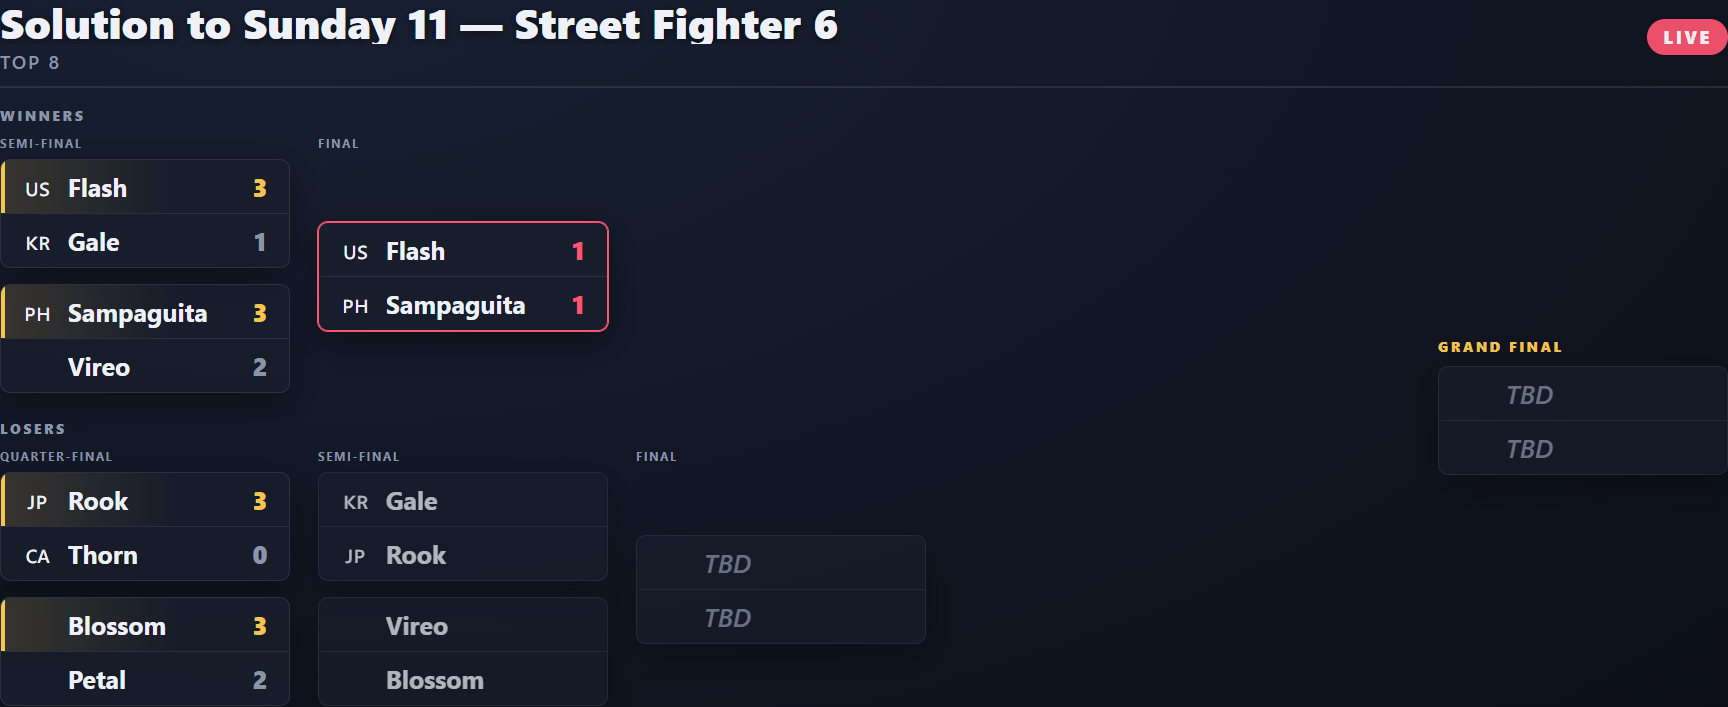
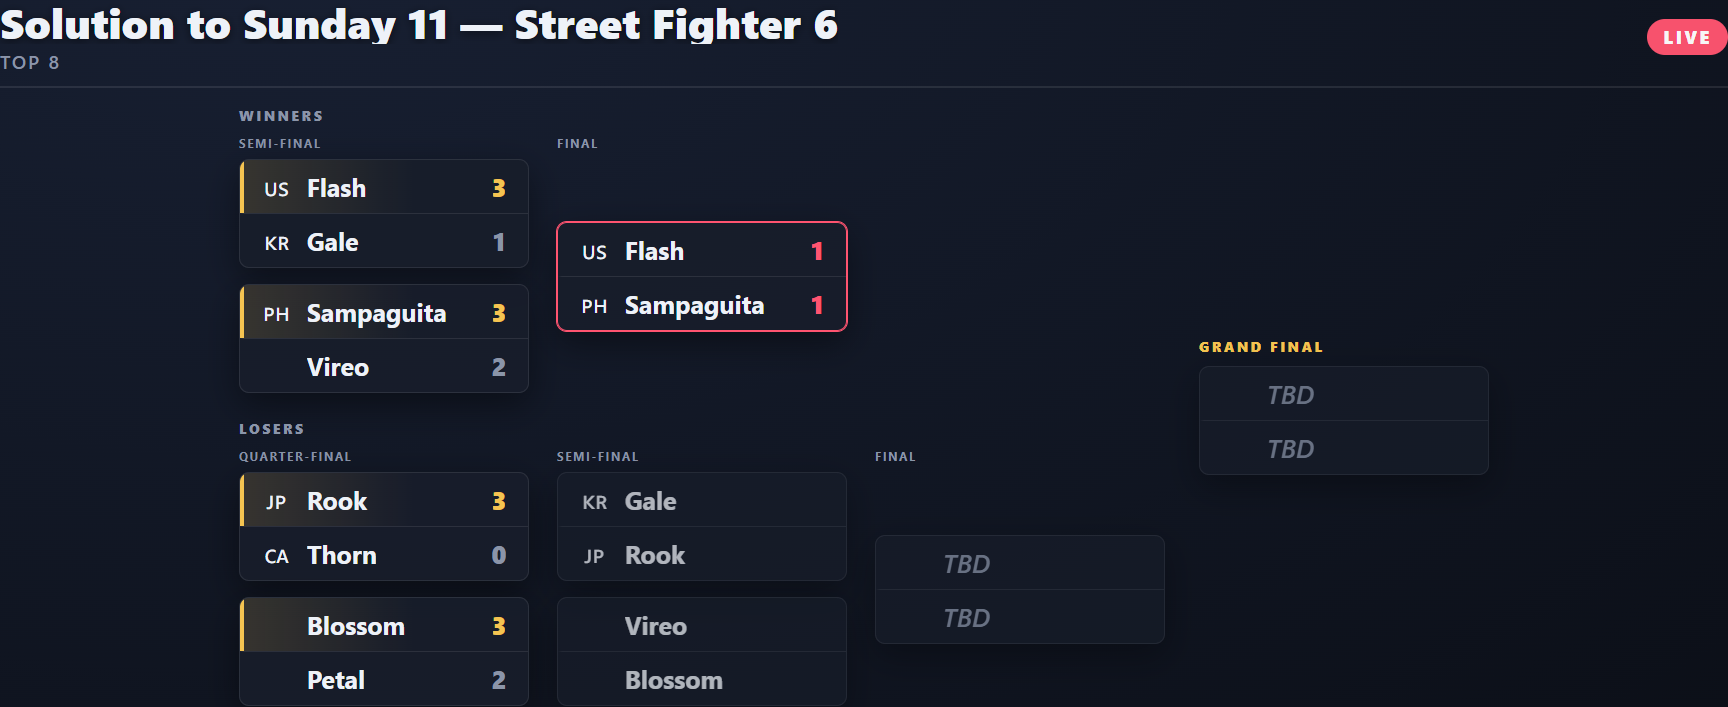
Octet bracket: center the tree and pull the Grand Final in next to it
The winners/losers column was 1fr (filled the stage), shoving the Grand Final band to the far edge; make both grid columns content-sized so GF hugs the tree, and center .oc-bracket in the stage (justify-content:center, width:auto). Regenerated docs/octet-bracket.png.

diff --git a/overlay/octet.css b/overlay/octet.css
@@ -216,14 +216,17 @@ html, body {
 .fmt-grid .oc-place-3 .oc-place { color: var(--octet-bronze); }
 
 /* ── bracket format ─────────────────────────────────────────────────────── */
-.fmt-bracket { width: 100%; }
+/* Center the whole bracket in the stage (override the shared left align). */
+.fmt-bracket { width: 100%; justify-content: center; }
 .oc-bracket {
   display: grid;
-  grid-template-columns: 1fr auto;
+  /* Both columns size to content so the Grand Final hugs the tree instead of
+     being pushed to the far edge; `width:auto` lets the grid center as a block. */
+  grid-template-columns: auto auto;
   grid-template-areas: "winners gf" "losers gf";
   gap: 26px 34px;
   align-items: start;
-  width: 100%;
+  width: auto;
 }
 .oc-winners { grid-area: winners; }
 .oc-losers { grid-area: losers; }
